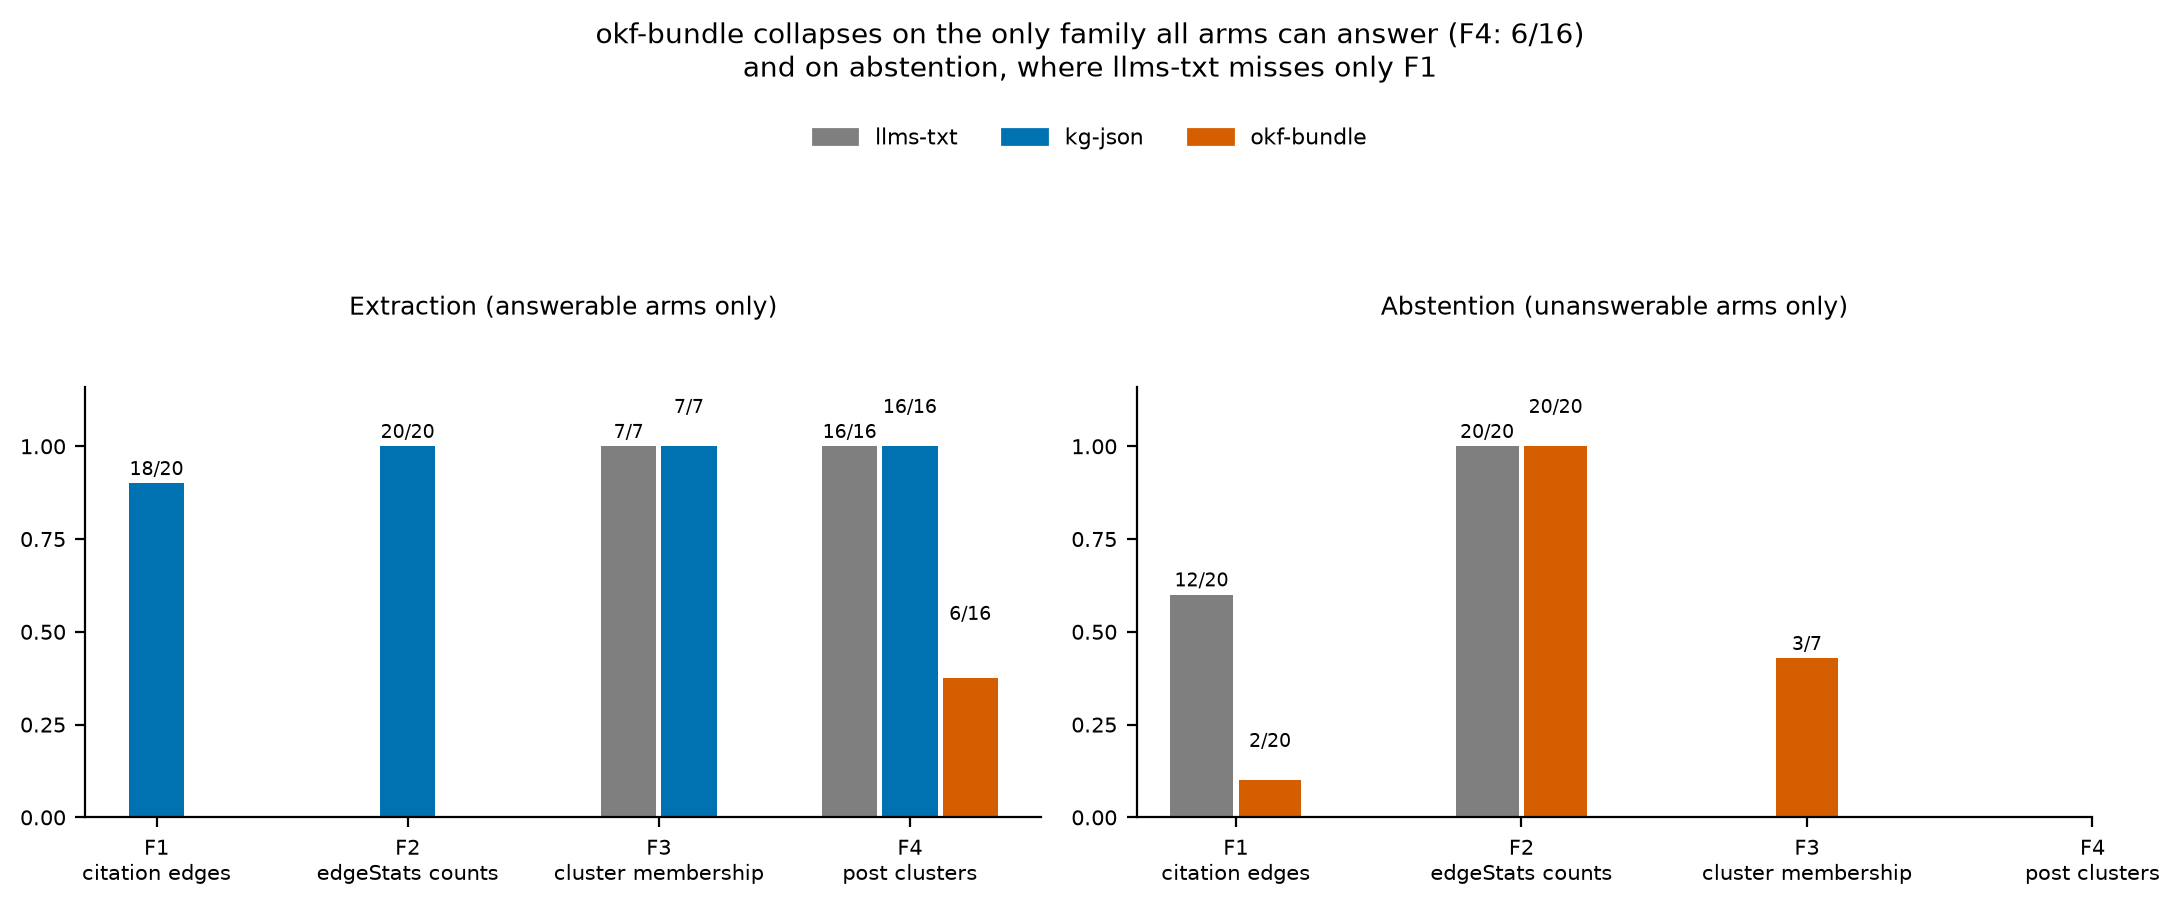
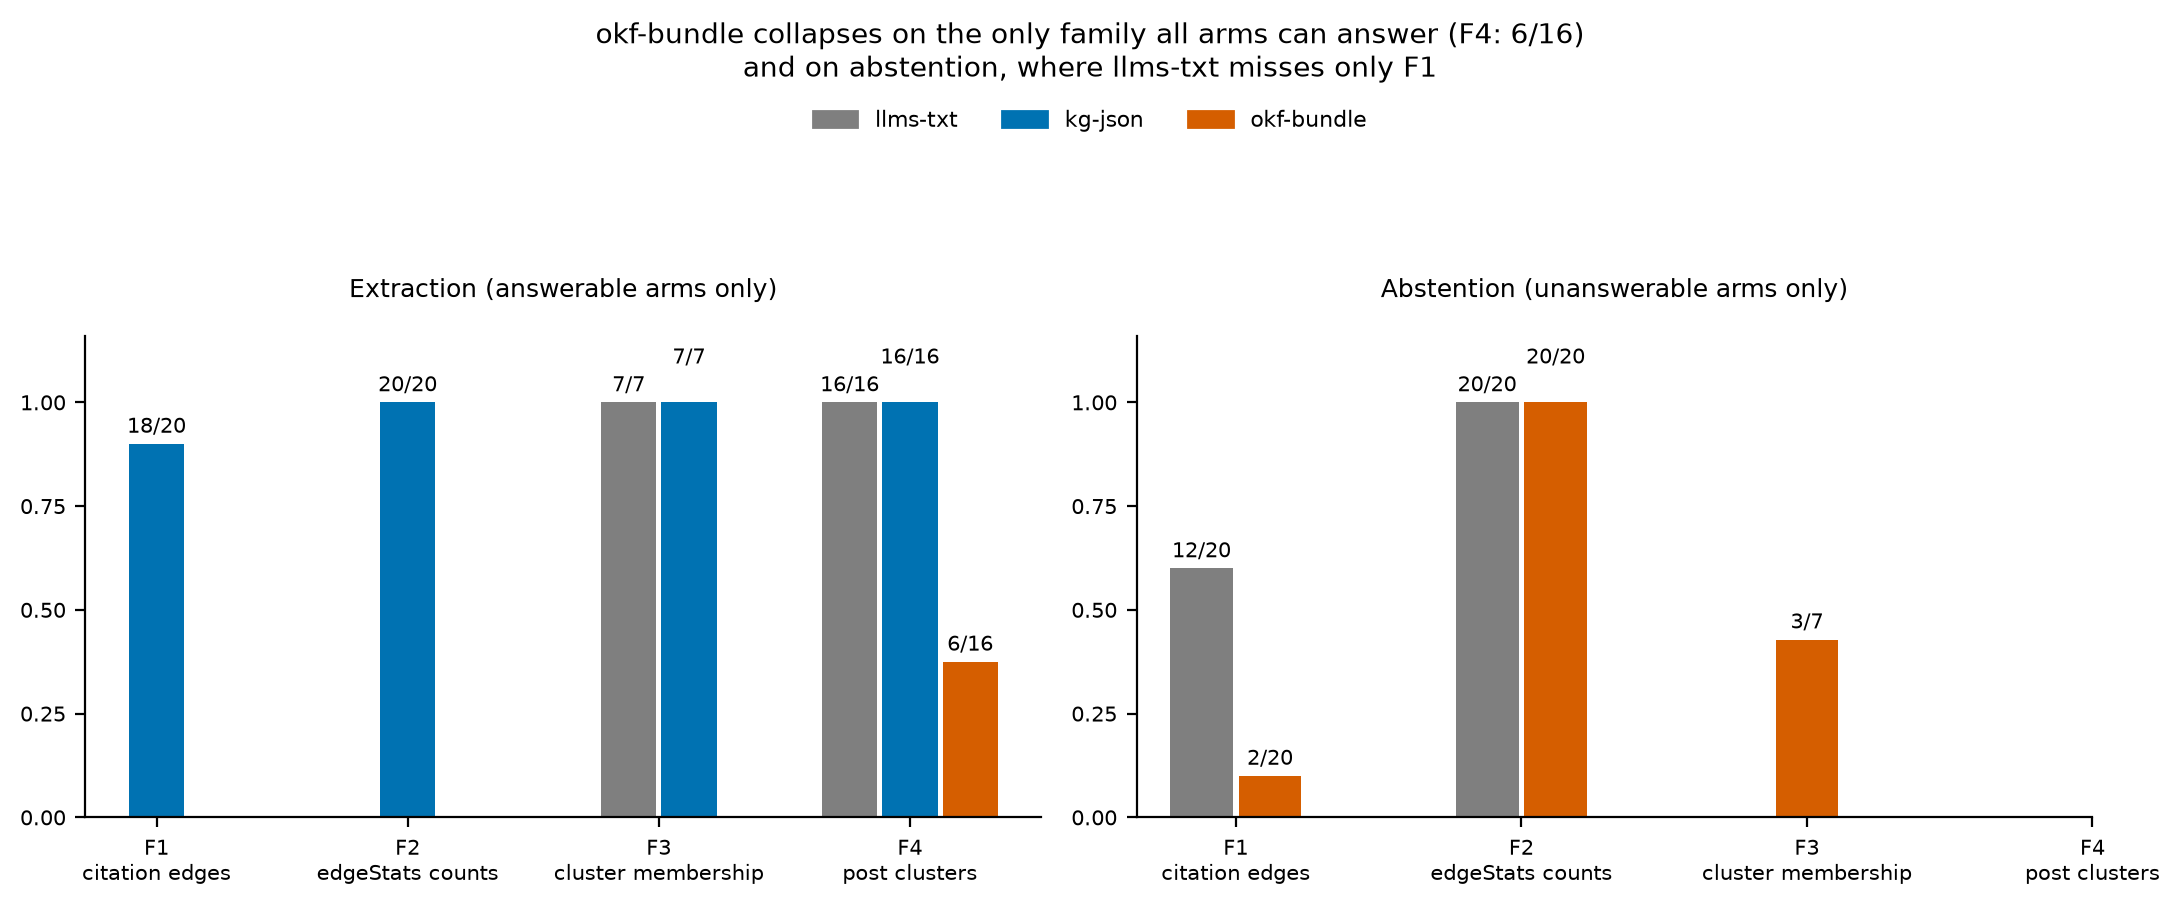
fix(figures): consistent bar value labels in fig4 (#16)

diff --git a/figures/fig4-family-breakdown.py b/figures/fig4-family-breakdown.py
@@ -56,19 +56,25 @@ def draw_panel(ax, title, groups, width=0.24):
         arms = groups[family]
         offsets = {arm: (j - (len(arms) - 1) / 2) * width
                    for j, arm in enumerate(arms)}
+        last_y = None
         for j, arm in enumerate(arms):
             k, n = groups[family][arm]
             ax.bar(gi + offsets[arm], k / n, width=width - 0.02,
                    color=COLORS[arm], zorder=2)
+            # Bump the label up only when it would collide with the
+            # neighbor's label at the same bar height.
+            bump = 14 if last_y is not None and k / n == last_y else 4
             ax.annotate(f"{k}/{n}", (gi + offsets[arm], k / n),
                         textcoords="offset points",
-                        xytext=(0, 3 + 9 * j), ha="center", fontsize=7)
+                        xytext=(0, bump), ha="center", fontsize=7.5,
+                        color="#000000")
+            last_y = k / n
     ax.set_xticks(range(len(labels)))
     ax.set_xticklabels([FAMILY_LABELS[f] for f in labels], fontsize=7.5)
     ax.set_ylim(0, 1.16)
     ax.set_yticks([0, 0.25, 0.5, 0.75, 1.0])
     ax.tick_params(axis="y", labelsize=7.5)
-    ax.set_title(title, fontsize=9, pad=26)
+    ax.set_title(title, fontsize=9, pad=14)
 
 
 def main():
@@ -89,11 +95,11 @@ def main():
     draw_panel(axes[1], "Abstention (unanswerable arms only)", abstention)
     handles = [plt.Rectangle((0, 0), 1, 1, color=COLORS[a]) for a in ARMS]
     fig.legend(handles, ARMS, fontsize=8, loc="upper center", ncol=3,
-               frameon=False, bbox_to_anchor=(0.5, 0.92))
+               frameon=False, bbox_to_anchor=(0.5, 0.94))
     fig.suptitle("okf-bundle collapses on the only family all arms can "
                  "answer (F4: 6/16)\nand on abstention, where llms-txt "
                  "misses only F1", fontsize=10, y=1.02)
-    fig.tight_layout(rect=(0, 0, 1, 0.85))
+    fig.tight_layout(rect=(0, 0, 1, 0.87))
     out = pathlib.Path(__file__).resolve().parent / "fig4-family-breakdown.png"
     fig.savefig(out, bbox_inches="tight")
     print(f"wrote {out}")
